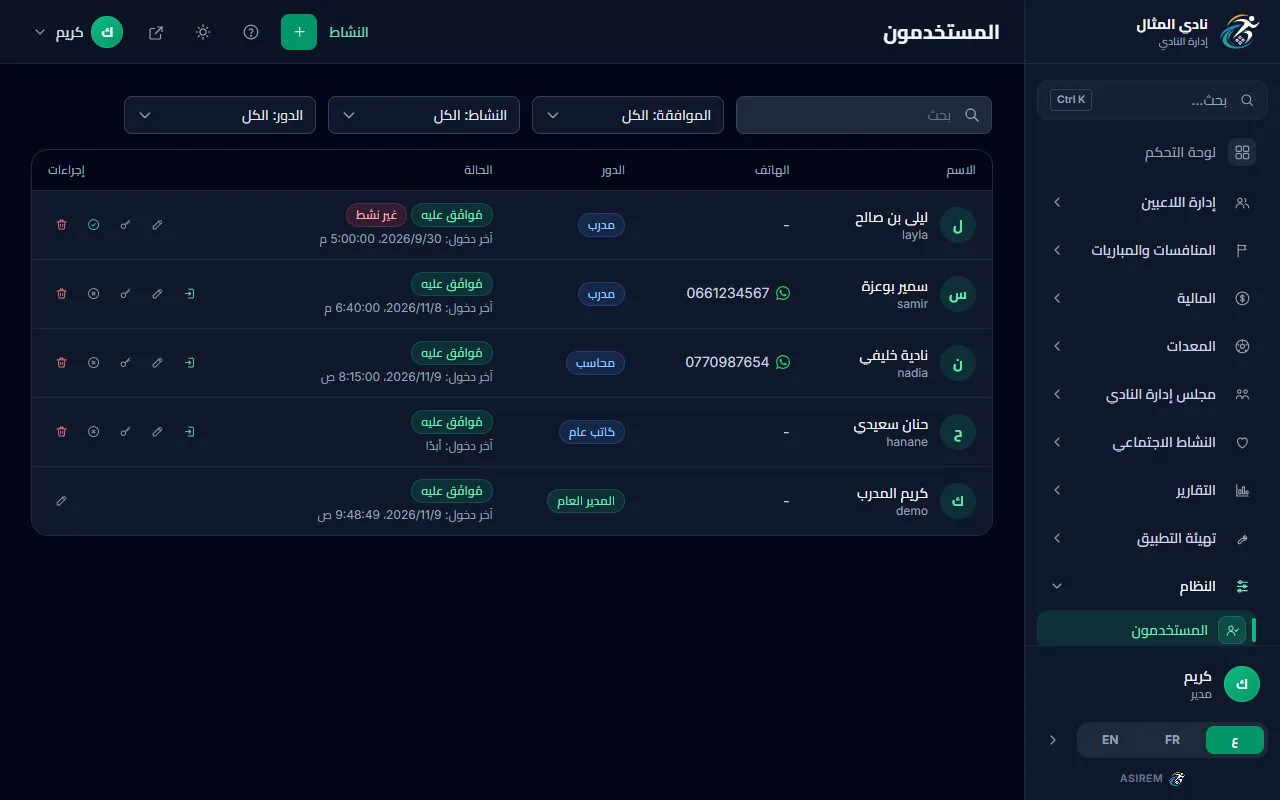
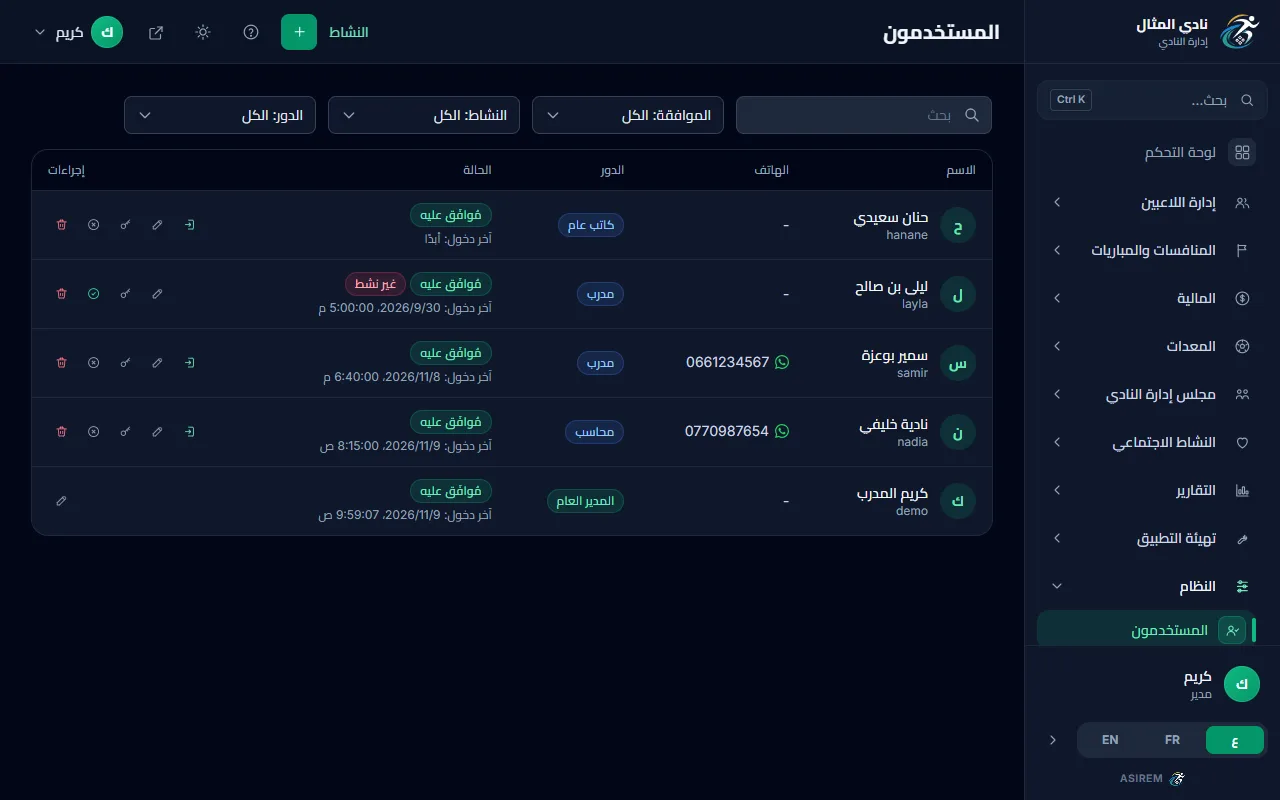
docs(help): fix review notes on create-user and manage-users

diff --git a/resources/help/shots.js b/resources/help/shots.js
@@ -972,7 +972,7 @@ export default [
             await centre(page, 'uc-create');
         },
     },
-    { name: 'set-users-rows', url: '/users', targets: ['users-row-layla', 'users-toggle-samir', 'users-toggle-layla', 'users-reset-nadia', 'users-delete-layla'] },
+    { name: 'set-users-rows', url: '/users', targets: ['users-row-layla', 'users-toggle-samir', 'users-reset-nadia', 'users-delete-layla'] },
     {
         // The reset window as it opens: both fields empty.
         name: 'set-user-reset-open',

diff --git a/resources/help/ar/settings/manage-users.md b/resources/help/ar/settings/manage-users.md
@@ -7,7 +7,7 @@ keywords: [تعطيل حساب, تفعيل حساب, حذف مستخدم, نسي
 related: [settings/create-user, getting-started/login]
 ---
 
-يعرض الجدول كل الحسابات، 25 في الصفحة. من سطر الحساب تعطّله، أو تعيد كلمة مروره، أو تحذفه.
+يعرض الجدول كل الحسابات، 25 في الصفحة. من سطر الحساب تعطّله، أو تعيد كلمة مروره، أو تحذفه. الحساب القديم الذي ينتظر الموافقة يحمل «قيد الانتظار» وزر «موافقة».
 
 :::example
 غادرت المدربة ليلى بن صالح النادي، وحسابها معطّل. ونسيت المحاسبة نادية خليفي كلمة مرورها، فتعيد لها كلمة جديدة.
@@ -19,13 +19,13 @@ related: [settings/create-user, getting-started/login]
 :::
 
 :::step ابحث عن الحساب
-اكتب الاسم أو اسم المستخدم في «بحث». أو اختر «غير نشط» من «النشاط» لترى الحسابات المعطّلة وحدها. في السطر شارة «غير نشط» عند الحساب المعطّل، وتحت الحالة تاريخ «آخر دخول» أو «أبدًا». الحساب القديم الذي ينتظر الموافقة يحمل «قيد الانتظار» وزر ✓ «موافقة».
+اكتب الاسم أو اسم المستخدم في «بحث». أو اختر «غير نشط» من «النشاط» لترى الحسابات المعطّلة وحدها.
 ::figure set-users ring=users-search,users-filter-activity
 :::
 
 :::step عطّل الحساب أو فعّله
-في سطر الحساب، اضغط على زر علامة ×. عندما تضع الفأرة عليه يظهر اسمه «تعطيل». يتغير الحساب فورًا، بلا سؤال. تظهر عبارة «تم تعطيل المستخدم.». لا يستطيع صاحبه بعدها استعمال البرنامج، وتظهر له صفحة «الحساب في انتظار الموافقة». لإعادته، اضغط الزر نفسه، وقد صار علامة ✓ واسمه «تفعيل». تظهر «تم تفعيل المستخدم.». تحتاج إلى صلاحية «تعديل» في «المستخدمون».
-::figure set-users-rows ring=users-toggle-samir,users-toggle-layla zoom=users-toggle-layla
+في سطر الحساب، اضغط على الزر الذي عليه دائرة فيها خطان متقاطعان. عندما تضع الفأرة عليه يظهر اسمه «تعطيل». يتغير الحساب فورًا، بلا سؤال. تظهر عبارة «تم تعطيل المستخدم.». لا يستطيع صاحبه بعدها استعمال البرنامج. لإعادته، اضغط الزر نفسه، وقد صار اسمه «تفعيل». تحتاج إلى صلاحية «تعديل» في «المستخدمون». لا يعطّل مسؤولٌ عاديٌّ مديرًا عامًّا.
+::figure set-users-rows ring=users-toggle-samir zoom=users-toggle-samir
 :::
 
 :::step اضغط زر المفتاح عند نادية
@@ -44,10 +44,10 @@ related: [settings/create-user, getting-started/login]
 :::
 
 :::step احذف الحساب
-في سطر الحساب، اضغط على الزر الأحمر الذي عليه سلة مهملات. عندما تضع الفأرة عليه يظهر اسمه «حذف». تظهر نافذة «هل أنت متأكد؟»، وفيها زر «حذف». تحتاج إلى صلاحية «حذف» في «المستخدمون».
+في سطر الحساب، اضغط على الزر الأحمر الذي عليه سلة مهملات. عندما تضع الفأرة عليه يظهر اسمه «حذف». تظهر نافذة «هل أنت متأكد؟». اضغط «حذف» في النافذة لتأكيد الحذف. تحتاج إلى صلاحية «حذف» في «المستخدمون».
 ::figure set-users-rows ring=users-delete-layla zoom=users-delete-layla
 :::
 
 :::warning
-الحذف لا يُلغى. فضّل «تعطيل» لمن غادر، فيُحفظ تاريخ الشخص كله. لا يمكن حذف حسابك، ولا آخر مدير عام.
+الحذف لا يُلغى. فضّل «تعطيل» لمن غادر، فيُحفظ تاريخ الشخص كله. لا يمكن حذف حسابك، ولا آخر مدير عام. ولا يحذف مسؤولٌ عاديٌّ مديرًا عامًّا.
 :::

diff --git a/resources/help/ar/settings/create-user.md b/resources/help/ar/settings/create-user.md
@@ -1,6 +1,6 @@
 ---
 title: كيف أنشئ حسابًا لعضو في الطاقم
-summary: أنشئ حسابًا لمدرب أو محاسب باسم مستخدم وكلمة مرور، وحدد دوره.
+summary: أنشئ حسابًا لمدرب أو محاسب باسم مستخدم وكلمة مرور.
 module: users
 pages: [users.index, users.create]
 keywords: [مستخدم جديد, حساب, إنشاء حساب, اسم المستخدم, كلمة المرور, الدور, مدرب, محاسب, طاقم, المستخدمون]
